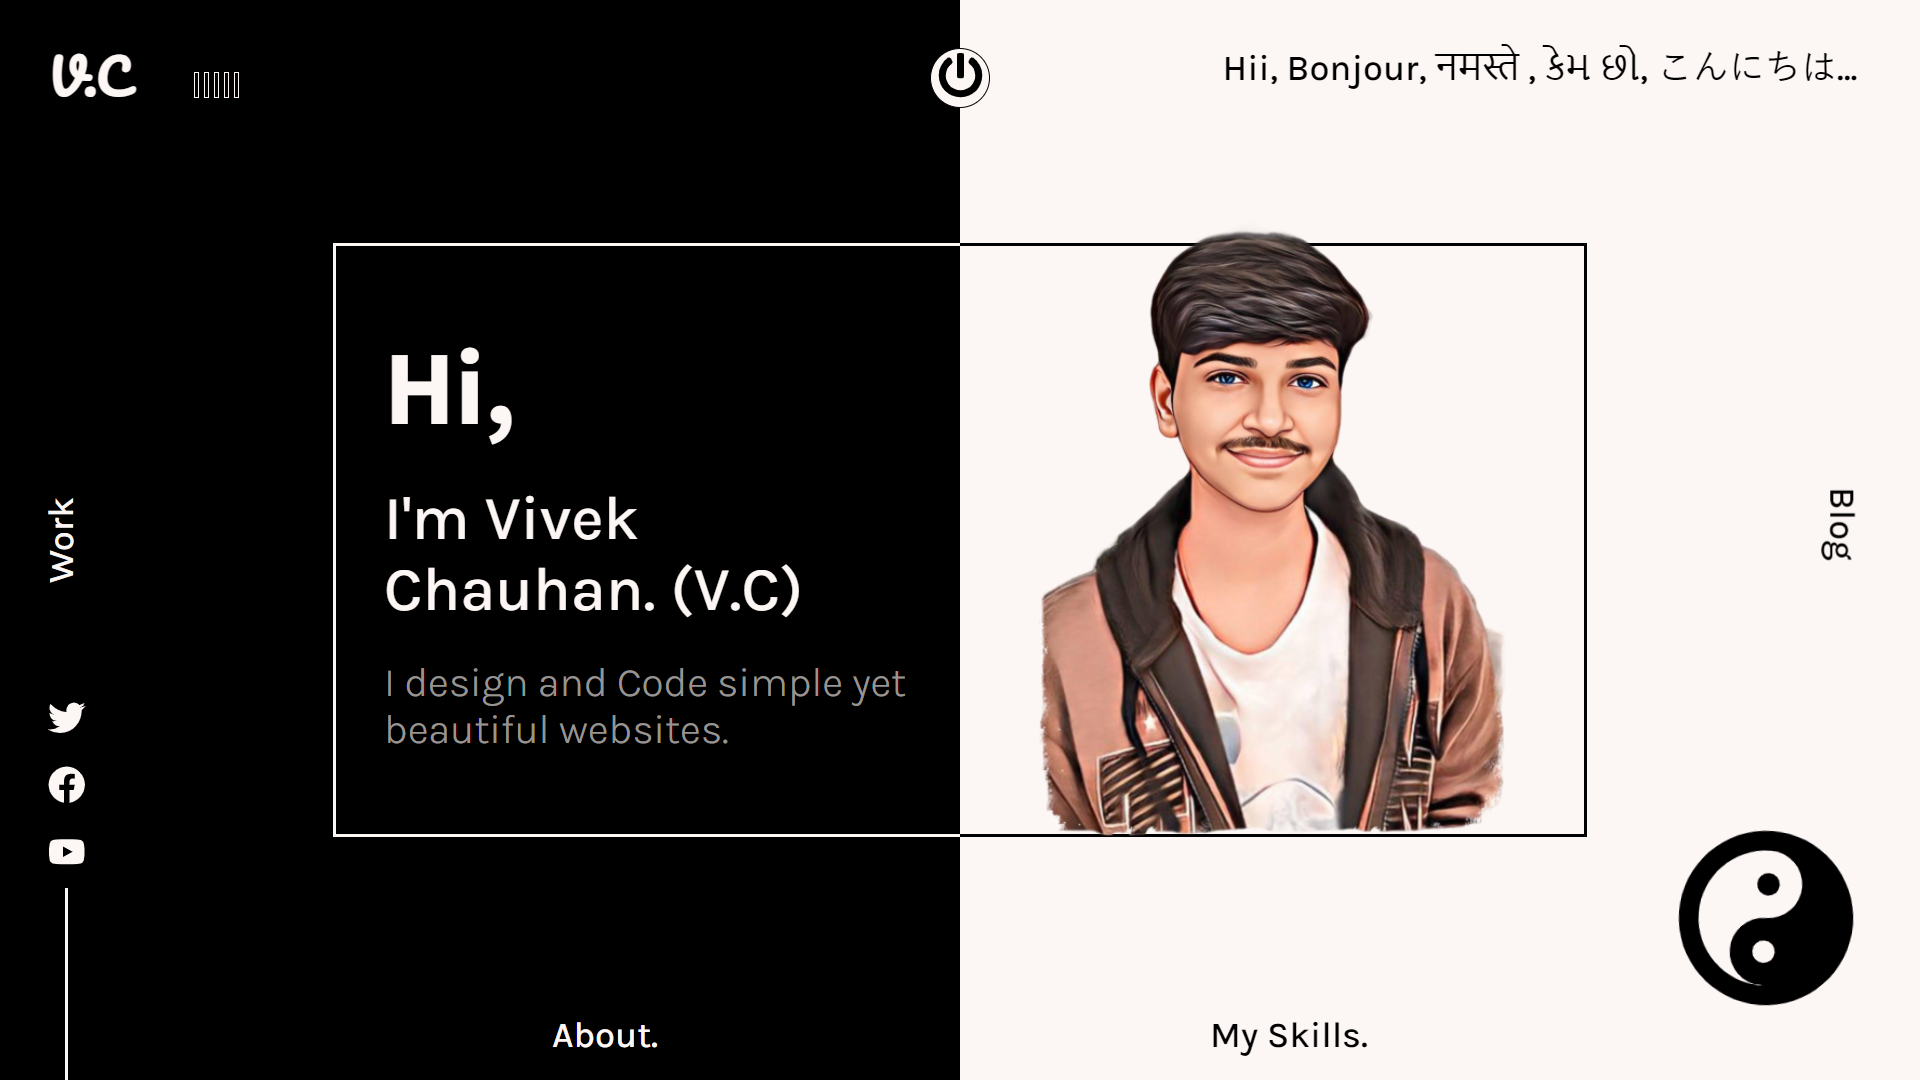
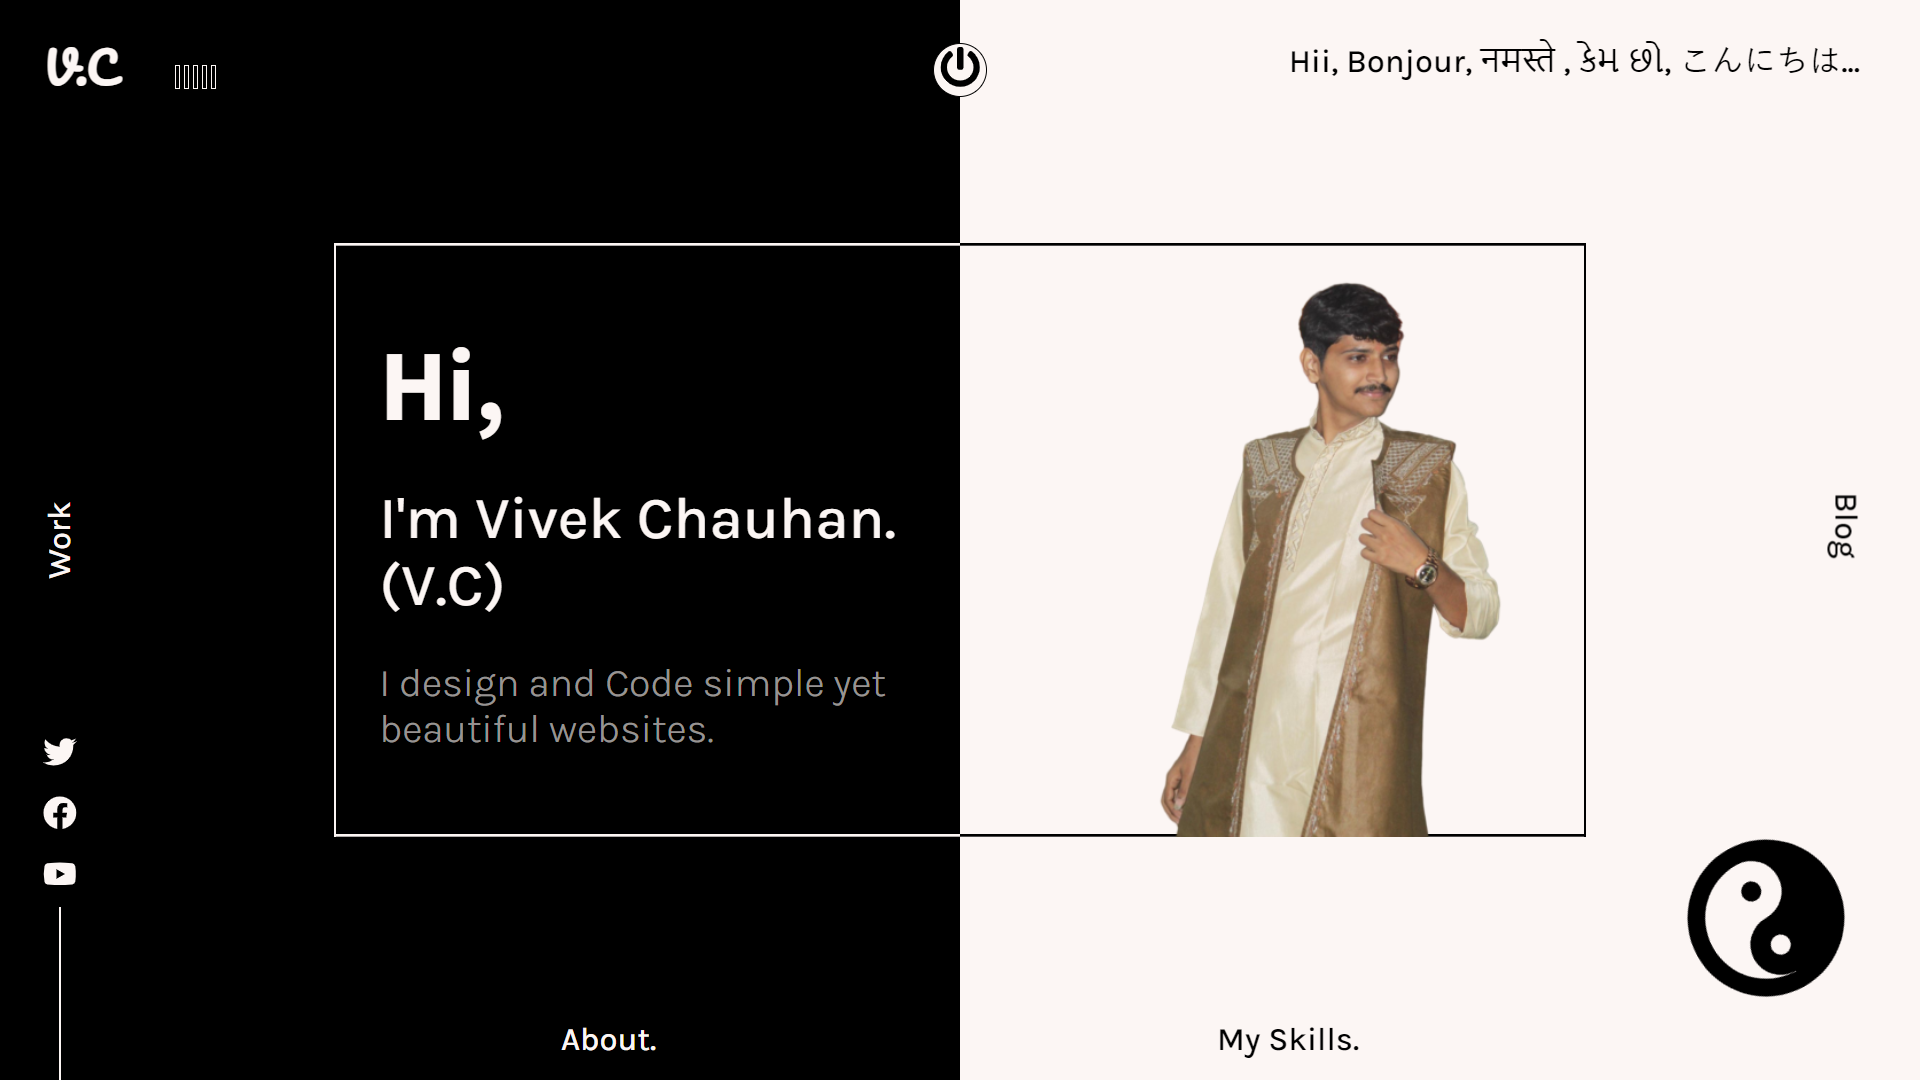
vlog image change

diff --git a/src/components/Projects/Projects.js b/src/components/Projects/Projects.js
@@ -9,6 +9,7 @@ import Portfolio from "../../Assets/Projects/Portfolio.png";
 import CarHireXpert from "../../Assets/Projects/CarHireXpert.png";
 import blog from "../../Assets/Projects/blog.png";
 import GovHub from "../../Assets/Projects/GovHub.png";
+import NewPortfolio from "../../Assets/Projects/Newportfolio.png";
 
 
 function Projects() {
@@ -36,15 +37,17 @@ function Projects() {
           
           <Col md={4} className="project-card">
             <ProjectCard
-              imgPath={podcast}
+              imgPath={NewPortfolio}
               isBlog={false}
-              title="Podcast"
-              description="I create podcasts for various reasons : first is that share valuable insights, second is that building a community or connecting with individuals, third is that it is increase my confidence, forth is that Sharing knowledge and expertise on specific topics.."
+              title="Portfolio"
+              description= 
+              "I've designed my portfolio to present my expertise, past projects, and experiences in an attractive format, offering potential employers and clients a detailed look at my capabilities and accomplishments "
               // ghLink="https://github.com/soumyajit4419/Plant_AI"
-              demoLink="https://podcasts.apple.com/us/podcast/vivek-chauhan/id1526873795"
+              demoLink="https://thevivekchauhan.github.io/vc/"
             />
           </Col>
 
+         
           <Col md={4} className="project-card">
             <ProjectCard
               imgPath={vlog}
@@ -55,18 +58,7 @@ function Projects() {
               demoLink="https://vivekchauhanvlog.netlify.app/"              
             />
           </Col>
-
-          <Col md={4} className="project-card">
-            <ProjectCard
-              imgPath={blog}
-              isBlog={false}
-              title="Tic-Tic"
-              description="I made this website because it is remind me Vivek you can't waste your time to chasing butterfly and other distraction. My parents have faith in me that I will come forward by doing good work in the world, so I should not be distracted by anything keeping that in mind."
-              // ghLink="https://github.com/soumyajit4419/Bits-0f-C0de"
-              demoLink="https://thevivekchauhan.github.io/future/"
-            />
-          </Col>
-
+        
           <Col md={4} className="project-card">
             <ProjectCard
               imgPath={Portfolio}
@@ -77,6 +69,18 @@ function Projects() {
               demoLink="https://thevivekchauhan.netlify.app/"
             />
           </Col>
+
+          <Col md={4} className="project-card">
+            <ProjectCard
+              imgPath={podcast}
+              isBlog={false}
+              title="Podcast"
+              description="I create podcasts for various reasons : first is that share valuable insights, second is that building a community or connecting with individuals, third is that it is increase my confidence, forth is that Sharing knowledge and expertise on specific topics.."
+              // ghLink="https://github.com/soumyajit4419/Plant_AI"
+              demoLink="https://podcasts.apple.com/us/podcast/vivek-chauhan/id1526873795"
+            />
+          </Col>
+
           <Col md={4} className="project-card">
             <ProjectCard
               imgPath={CarHireXpert}
@@ -96,6 +100,18 @@ function Projects() {
               demoLink="https://thevivekchauhan.github.io/GovHub/"
             />
           </Col>
+            <Col md={4} className="project-card">
+            <ProjectCard
+              imgPath={blog}
+              isBlog={false}
+              title="Tic-Tic"
+              description="I made this website because it is remind me Vivek you can't waste your time to chasing butterfly and other distraction. My parents have faith in me that I will come forward by doing good work in the world, so I should not be distracted by anything keeping that in mind."
+              // ghLink="https://github.com/soumyajit4419/Bits-0f-C0de"
+              demoLink="https://thevivekchauhan.github.io/future/"
+            />
+          </Col>
+
+
         </Row>
       </Container>
     </Container>
